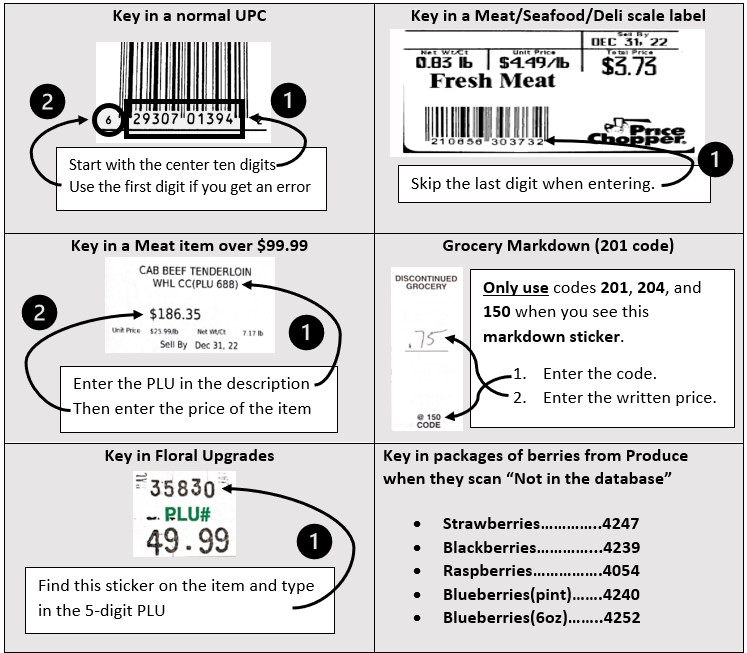
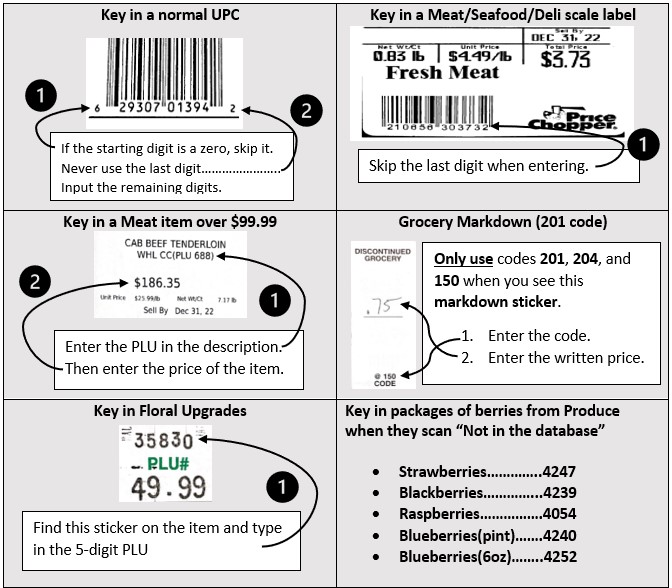
Lesson one gif and lesson update

diff --git a/scripts/index.js b/scripts/index.js
@@ -619,7 +619,7 @@ function runLessons(product) {
 	
 	let header = document.querySelector("#rightHeader");
 	header.innerHTML = "";
-	header.innerHTML = `Testing`;
+	header.innerHTML = `${stepsPassed + 1} / ${lessonEndIndex + 1}`;
 
 	let main = document.querySelector("#rightPanelMainContent");
 	main.innerHTML = "";
@@ -1268,12 +1268,18 @@ function landingPage(title,content){
 
 }
 
+const normalUPCLesson = `<div id="containerForGifAndImage">
+							<img src="images/normalUPCLesson.jpg" alt="Normal UPC">
+							<img src="images/normalUPCvid.gif" alt="displaying how to enter a upc on a register">
+						</div>`;
+
+
 function lessonPopup(content){
 	let grabmain = document.querySelector("#containerWindow");
 	let outerDiv = document.createElement("div");
 	let register = document.querySelector("#containerWindow > aside");
 
-	outerDiv.id = "outerDivForLessonPopup";
+	outerDiv.id = "outerDivForErrorBox";
 	outerDiv.innerHTML += `${content}`;
 
 	outerDiv.addEventListener("click", closeLandingPage);
@@ -1415,4 +1421,4 @@ window.addEventListener("keydown", function(event) {
   }
 });
 
-
+document.querySelector("body > nav > div > a > strong").addEventListener("click", () => { lessonPopup(normalUPCLesson);});

diff --git a/styles/index.css b/styles/index.css
@@ -2,6 +2,16 @@
   .hideDisplay{
     display: none;
   }
+
+#containerForGifAndImage>img:nth-child(1){
+    height: 800px;
+    width: 98%;
+}
+#containerForGifAndImage>img:nth-child(2){
+    height: 800px;
+        width: 98%;
+}
+
 #leftSide>button{
    background-color: transparent;
 }
@@ -48,8 +58,8 @@ body>nav>div>h5{
         
       }
       .h100w100{
-          height: 200px;
-          width: 450px;
+          height: 230px;
+          width: 490px;
       }
       
 
@@ -87,6 +97,7 @@ body>nav>div>h5{
 
 #rightPanelAltContent{
     height: 200px;
+    padding-top: 0%;
 
 }
 
@@ -233,8 +244,8 @@ body{
         top: 4%;
         left: 50%;
         transform: translate(-50%, 0%);
-    width: 80%;
-    height: 80%;
+    width: 1400px;
+    height: 850px;
     background-color:  black;
     z-index: 1;
     border: #0d6efd 5px outset;
@@ -252,7 +263,10 @@ body{
         border: #0d6efd 5px outset;
         padding: 1%;
 }
-
+#containerForGifAndImage{
+    display: grid;
+    grid-template-columns: 1fr 1fr;
+}
 #outerDivForHelpBox{
     position: absolute;
     top: 5%;
